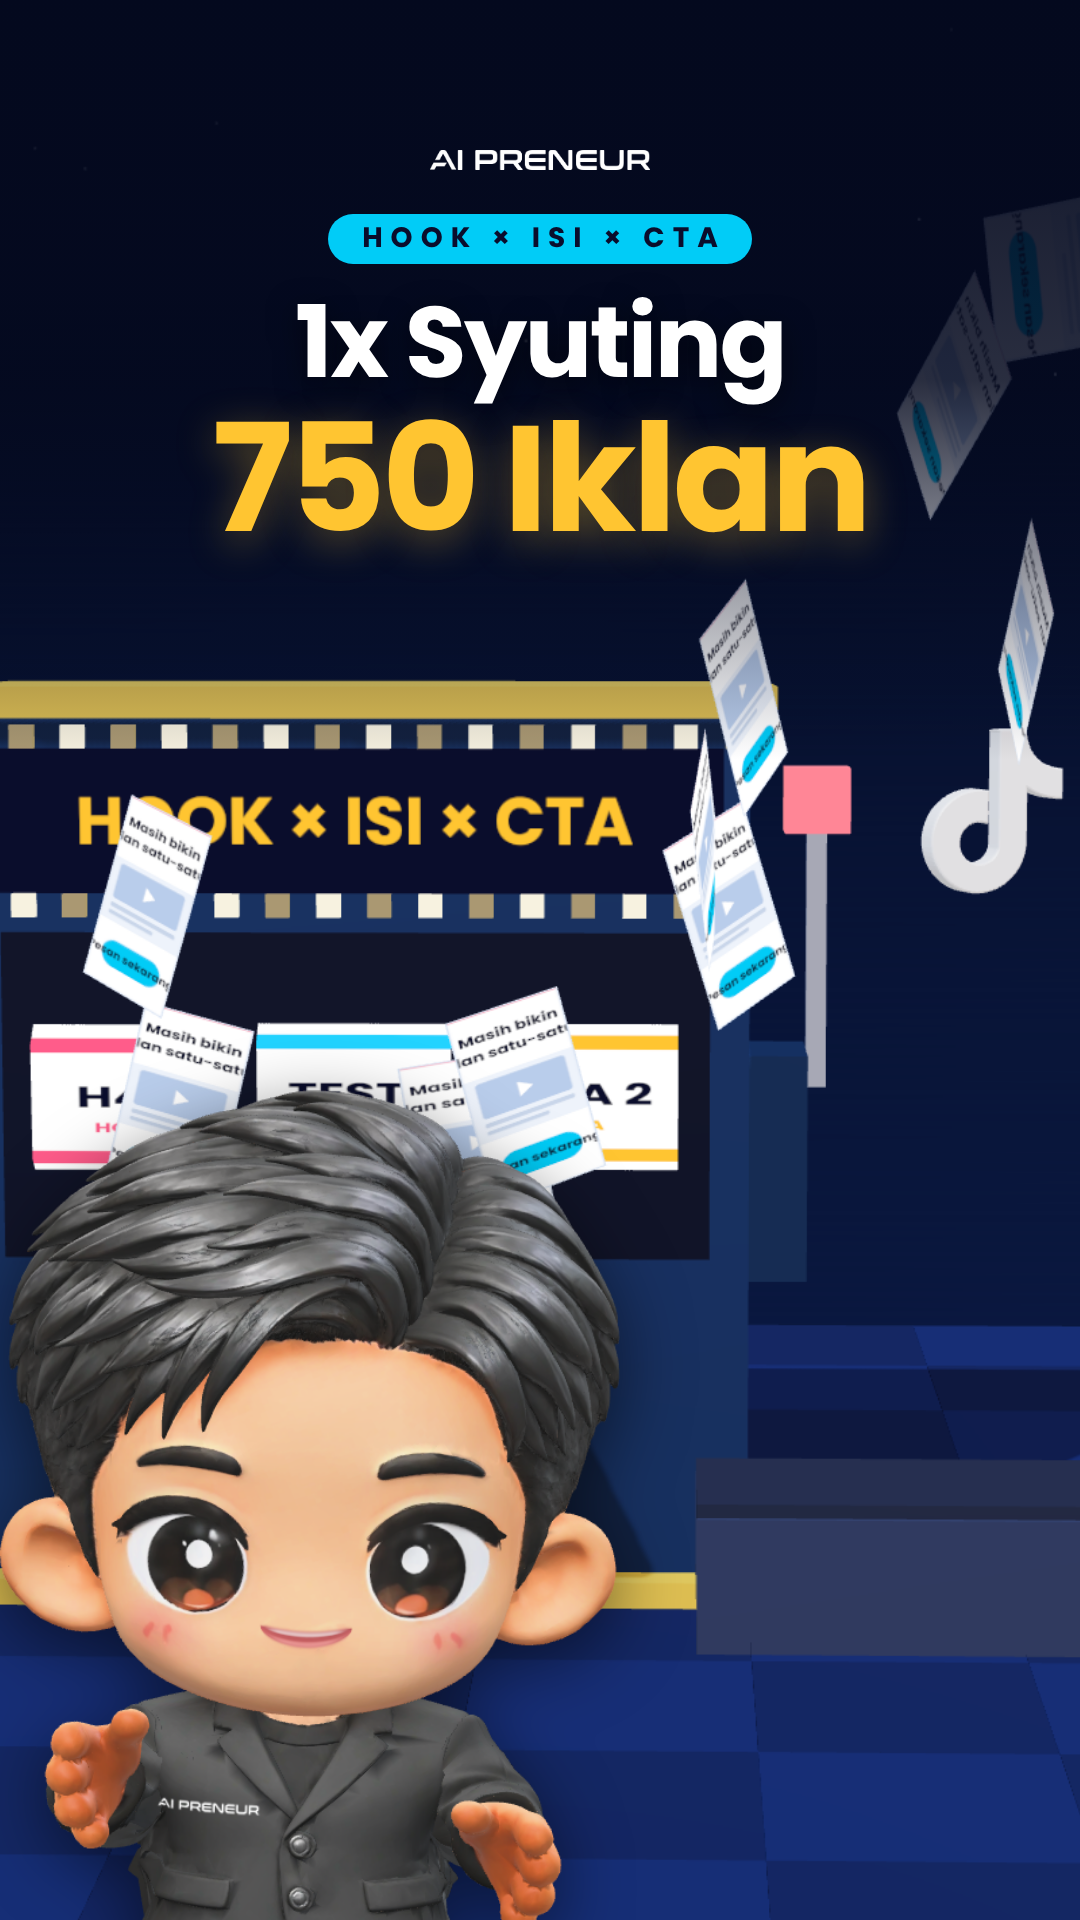
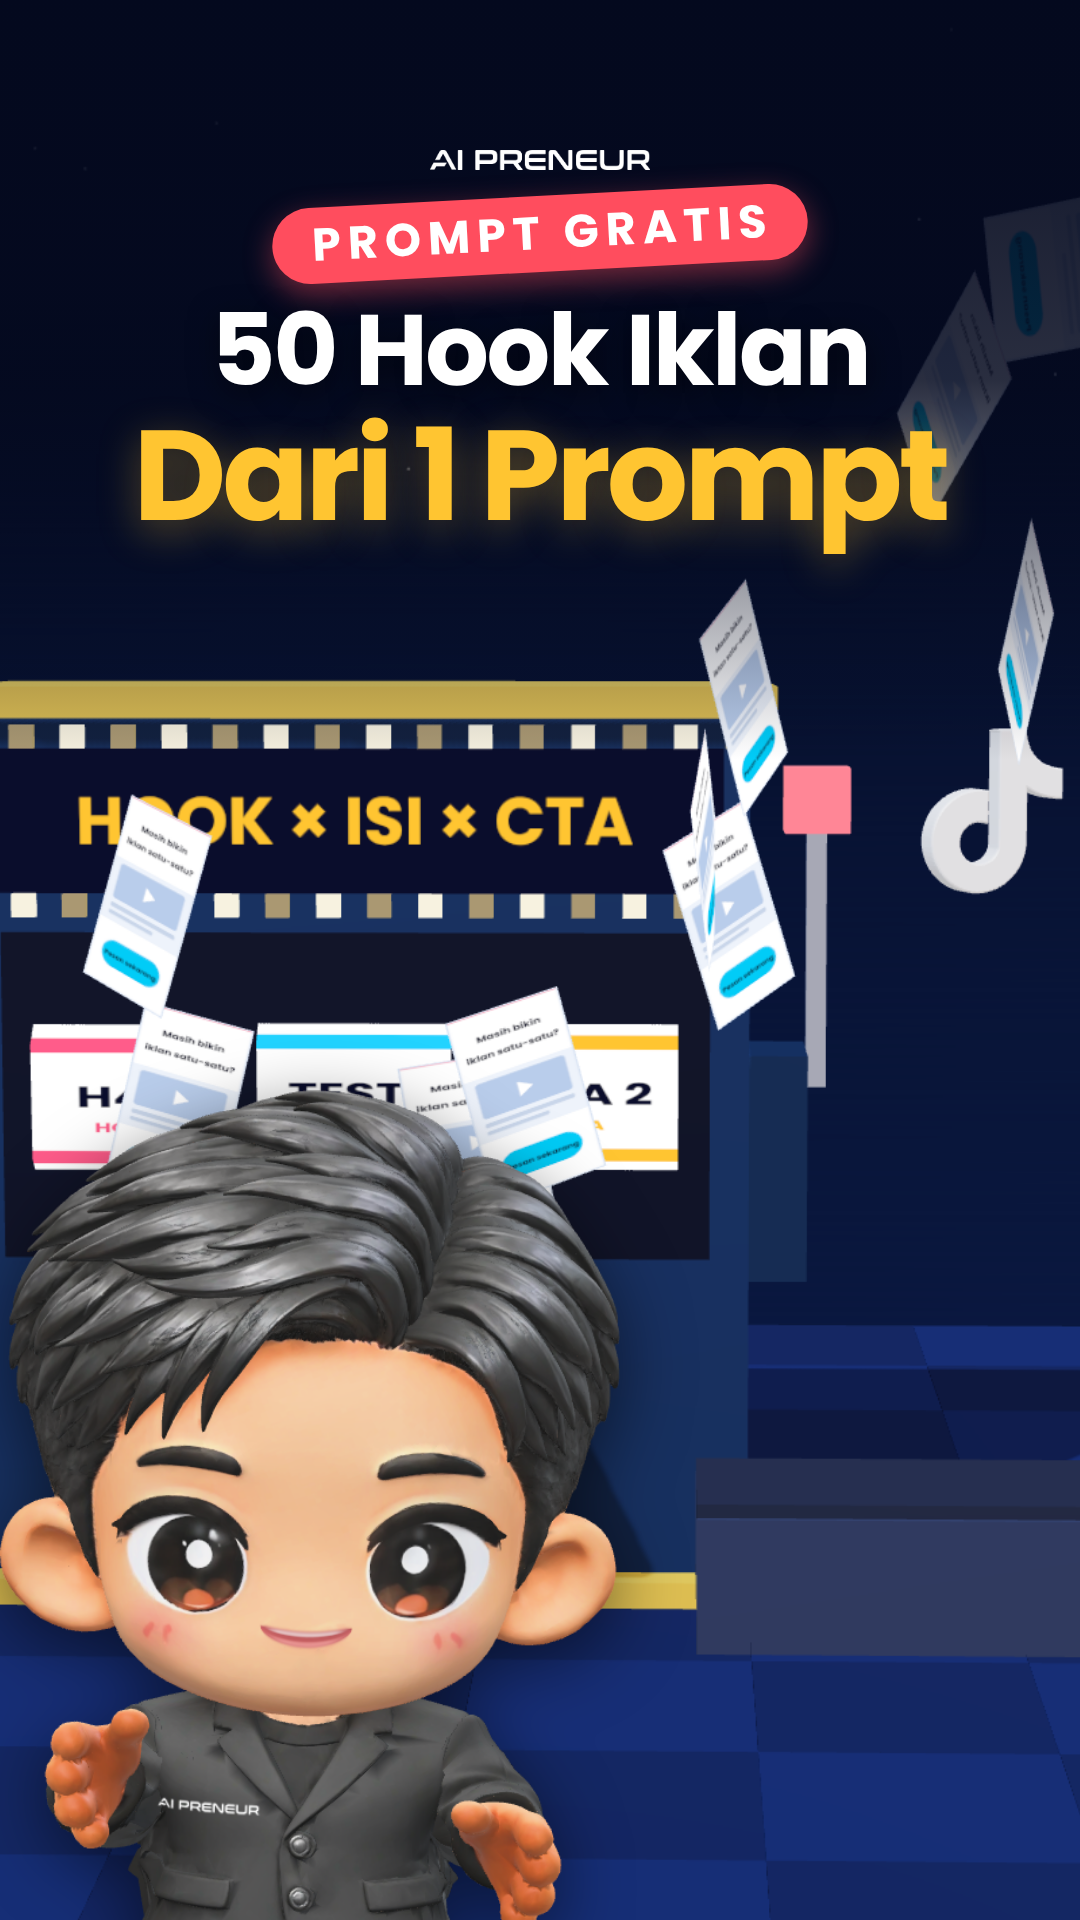
R26: fit ad-card text (no cut words), thumbnail 'PROMPT GRATIS · 50 Hook Iklan Dari 1 Prompt'
Claude-Session: https://claude.ai/code/session_01FYKeHQKRYJvqWR6SYDVSQw

diff --git a/projects/aip_r26_hookmatrix/thumbnail/cover.html b/projects/aip_r26_hookmatrix/thumbnail/cover.html
@@ -12,17 +12,17 @@
   #host { position: absolute; left: 0; bottom: -40px; width: 620px; height: auto; filter: drop-shadow(0 18px 34px rgba(0,0,0,.5)); }
   .c { position: absolute; left: 0; width: 1080px; text-align: center; white-space: nowrap; }
   #logo { position: absolute; left: 430px; top: 150px; width: 220px; }
-  #eb { top: 214px; } #eb span { display: inline-block; padding: 10px 26px 12px 34px; border-radius: 40px; background: #01ccf7; color: #0a0d2c; font: 700 28px/1 Poppins; letter-spacing: 8px; }
-  #h1 { top: 292px; font: 700 100px/1 Poppins; letter-spacing: -2.5px; color: #ffffff; text-shadow: 0 8px 30px rgba(0,0,0,.5); }
-  #h2 { top: 404px; font: 700 150px/1 Poppins; letter-spacing: -4px; color: #ffc531; text-shadow: 0 10px 40px rgba(255,197,49,.35); }
+  #eb { top: 196px; } #eb span { display: inline-block; padding: 14px 34px 16px 40px; border-radius: 48px; background: #ff4d5e; color: #ffffff; font: 700 46px/1 Poppins; letter-spacing: 7px; box-shadow: 0 10px 30px rgba(255,77,94,.45); transform: rotate(-3deg); }
+  #h1 { top: 300px; font: 700 100px/1 Poppins; letter-spacing: -2.5px; color: #ffffff; text-shadow: 0 8px 30px rgba(0,0,0,.5); }
+  #h2 { top: 412px; font: 700 128px/1 Poppins; letter-spacing: -4px; color: #ffc531; text-shadow: 0 10px 40px rgba(255,197,49,.35); }
 </style></head>
 <body>
   <img id="bg" src="still_world.png" alt="" />
   <div id="fadeT"></div>
   <img id="host" src="host_cut.png" alt="" />
   <img id="logo" src="../assets/brand/logo_white_trim.png" alt="AI PRENEUR" />
-  <div class="c" id="eb"><span>HOOK × ISI × CTA</span></div>
-  <div class="c" id="h1">1x Syuting</div>
-  <div class="c" id="h2">750 Iklan</div>
+  <div class="c" id="eb"><span>PROMPT GRATIS</span></div>
+  <div class="c" id="h1">50 Hook Iklan</div>
+  <div class="c" id="h2">Dari 1 Prompt</div>
   <script>document.fonts.ready.then(() => (window.COVER_READY = true));</script>
 </body></html>
